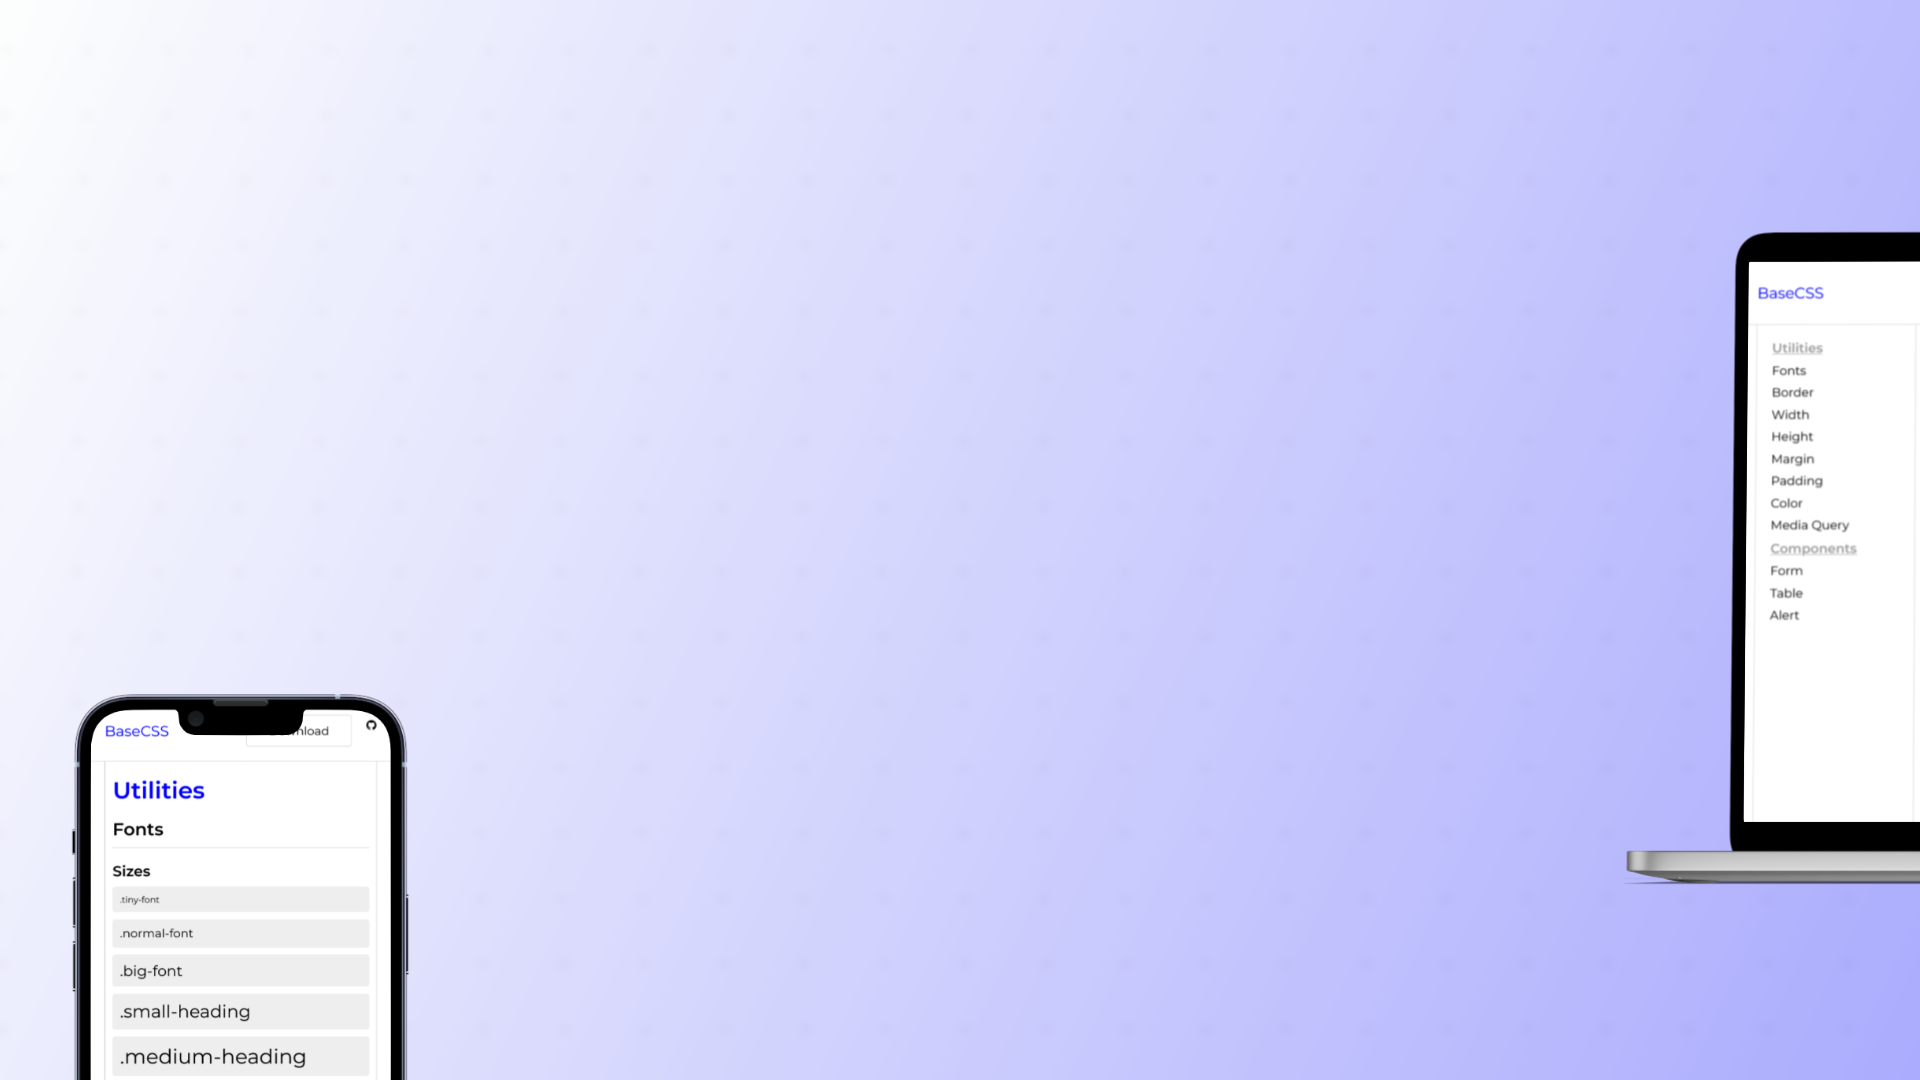
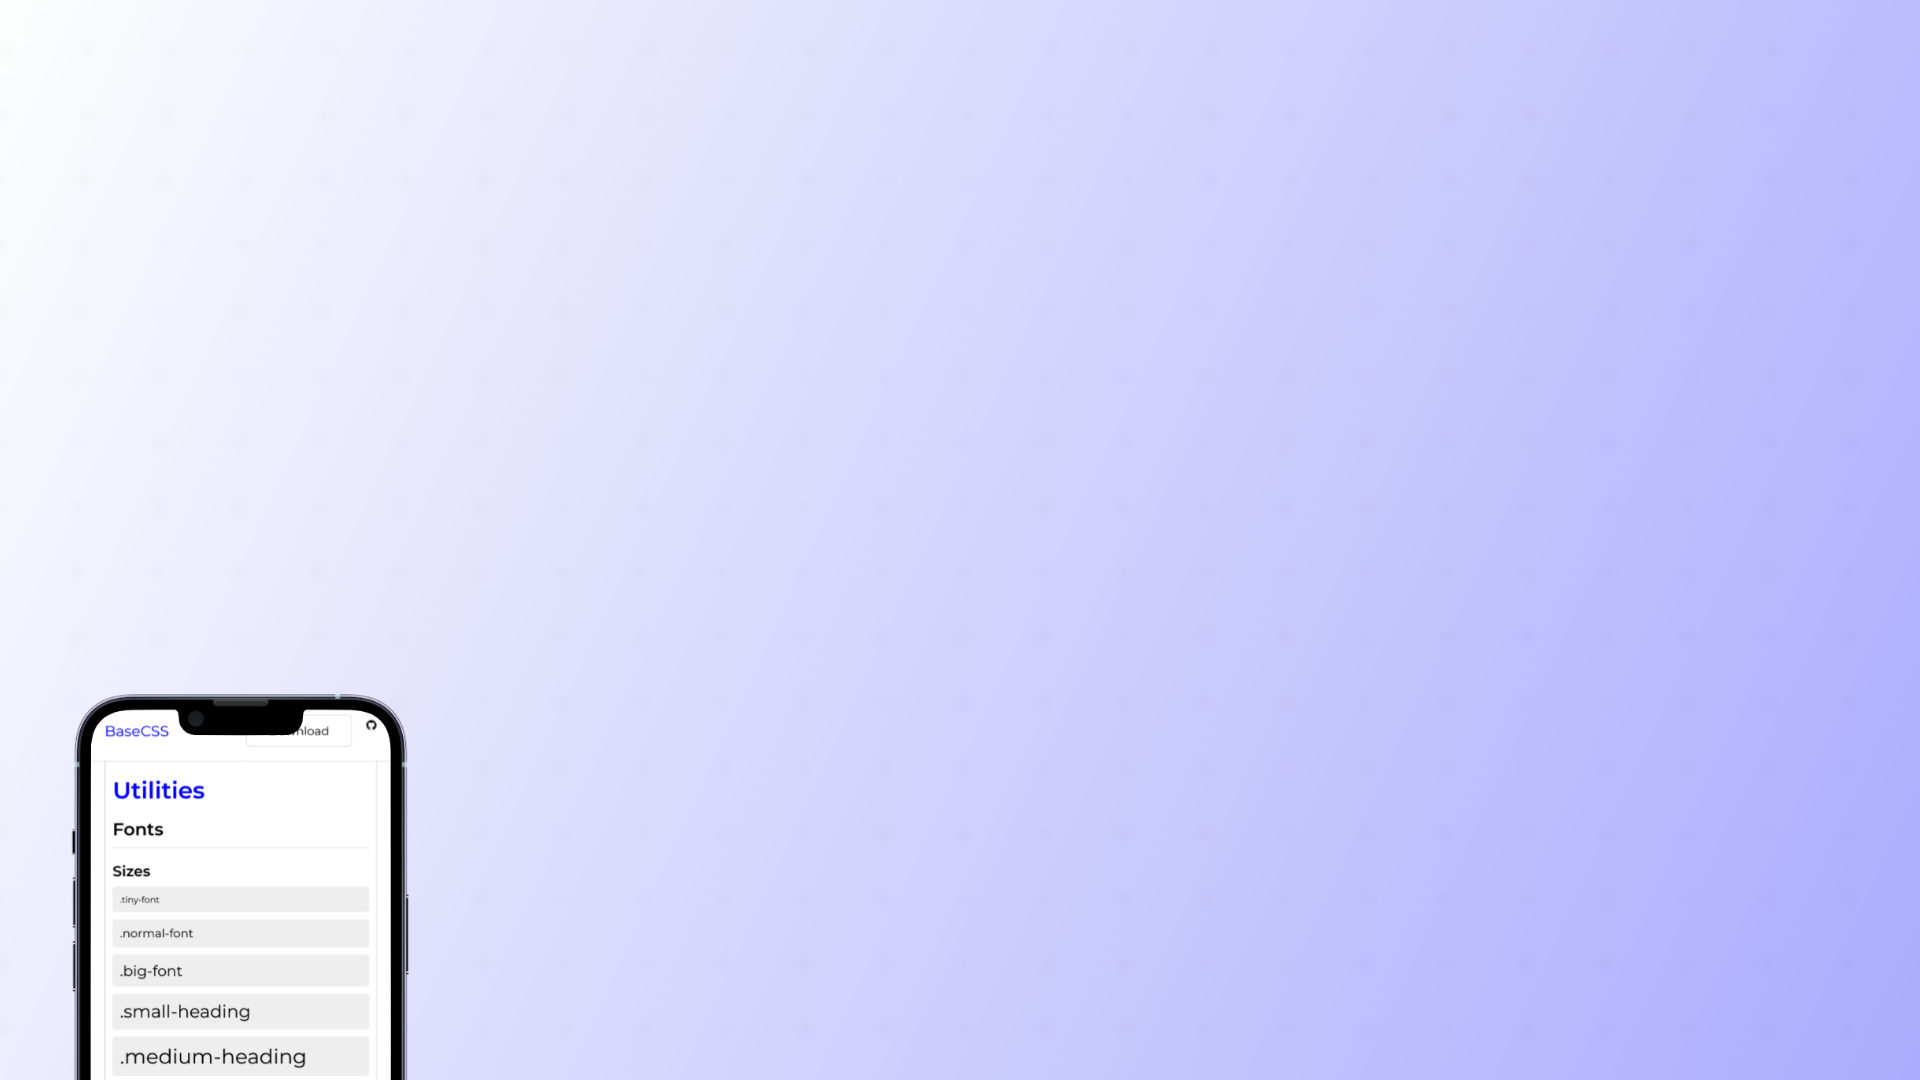
Responiveness for Home Page

Changed region(s): [[0.8438, 0.2139, 1.0, 0.825]]

diff --git a/style/home.css b/style/home.css
@@ -236,10 +236,46 @@ form input {}
 }
 
 h1.hero {
-    font-size: 40px;
-    text-align: center;
+    font-size: 39px;
+    width: 100%;
 }
 
 #display {
     margin-top: 200px;
 }
+
+@media (max-width:900px) {
+    div#display {
+        margin-top: 80px;
+        width: 95%;
+        margin-left: auto;
+        margin-right: auto;
+    }
+    #display h1 {
+        font-size: 30px;
+        /* text-align: center; */
+    }
+}
+
+@media (max-width:500px) {
+    div#display {
+        margin-top: 40px;
+        width: 95%;
+        margin-left: auto;
+        margin-right: auto;
+    }
+    #display h1 {
+        font-size: 24px;
+        /* text-align: center; */
+    }
+    body {
+        background-image: url(/assets/bg-img.png) !important;
+    }
+}
+
+@media (min-width:1600px) {
+    div#display {
+        margin-top: 300px;
+    }
+}
+

diff --git a/index.html b/index.html
@@ -35,7 +35,10 @@
     <main>
         <div class="container">
             <div id="display">
-                <h1 class="fw-extra-thick hero">Learn CSS and JavaScript fundamentals with style!</h1>
+                <h1 class="fw-extra-thick hero font-blue mb-1">Learn CSS and JavaScript fundamentals with style!</h1>
+                <p>A light-weight framework that will beautify your JavaScript learning experience and challenge you to create your own CSS styling.</p>
+
+                <center><button class="py-1 px-2 mt-3 border-none bg-black font-white">Get Started</button></center>
             </div>
         </div>
     </main>
@@ -45,6 +48,7 @@
             background-image: url(assets/bg-4.png);
             background-repeat: no-repeat;
             background-size: cover;
+            height: 100vh;
         }
     </style>
 </body>
